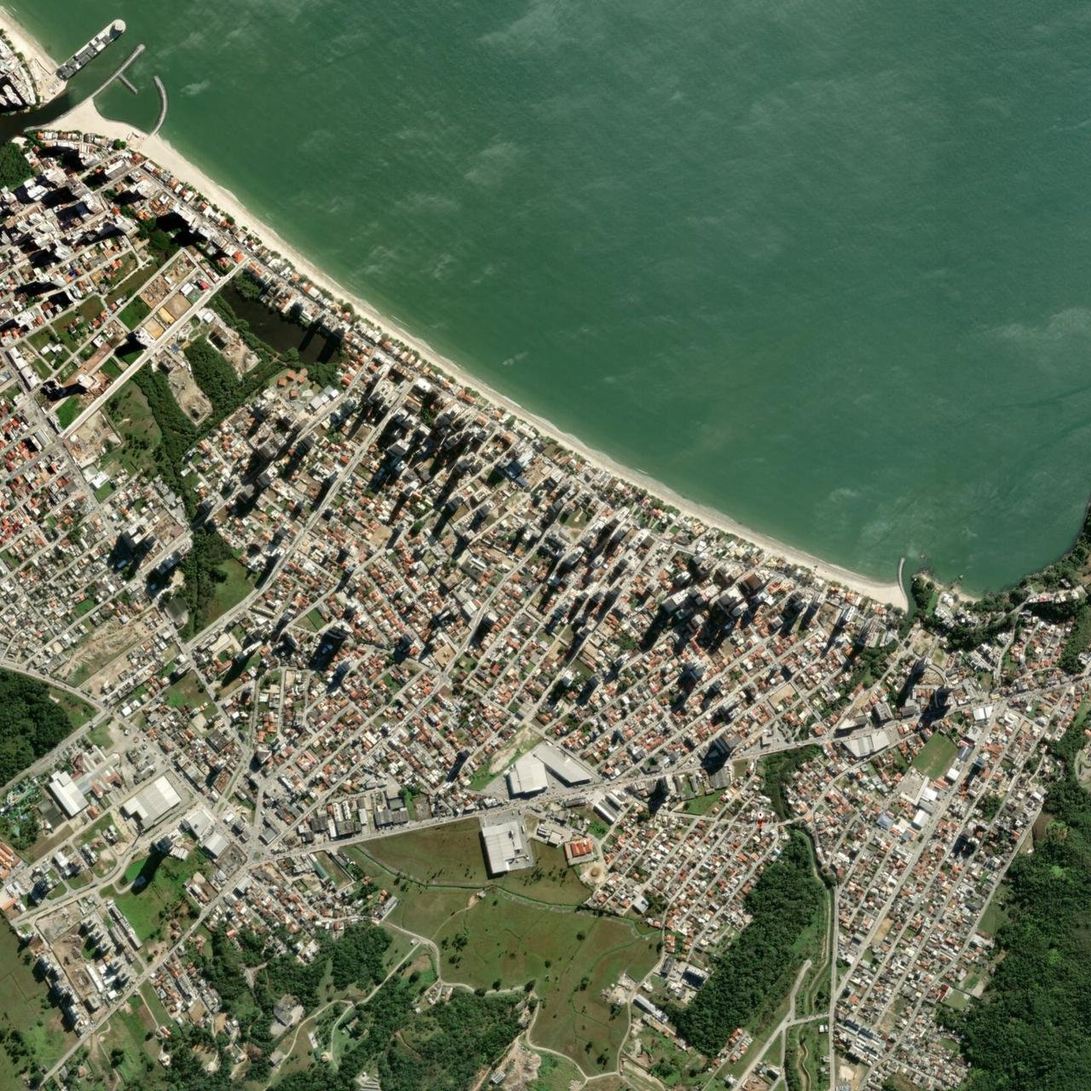
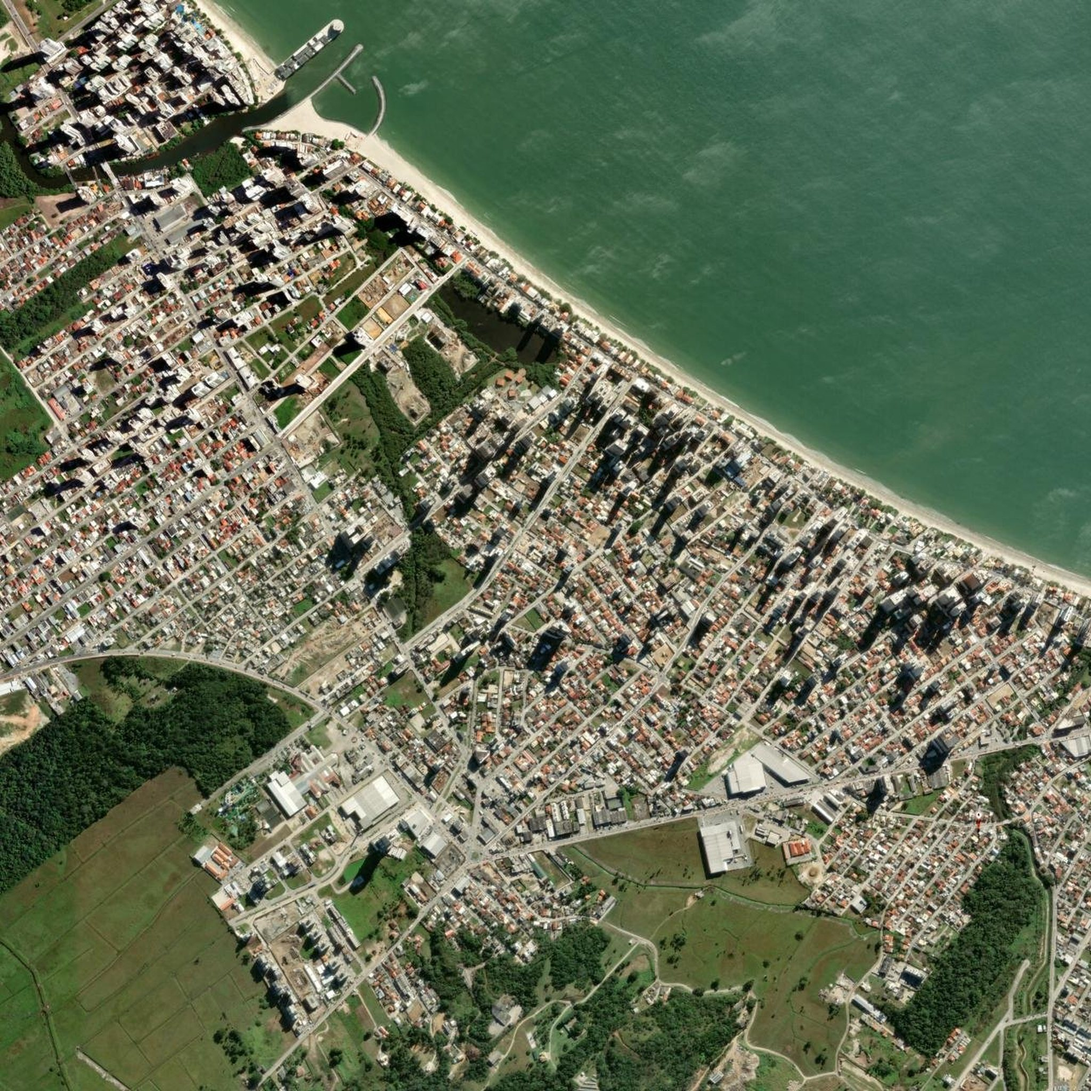
Montemerano: endereço (Rua Dorvalino Voltolini, Balneário Perequê, Porto Belo), satélite no ponto do anúncio, previsão jul/2028 como previsão

diff --git a/Planta-Interativa/Planta Interativa/tour/src/scene/entorno.generated.ts b/Planta-Interativa/Planta Interativa/tour/src/scene/entorno.generated.ts
@@ -1,2 +1,2 @@
-/* Gerado por scripts/build-satelite.py — não edite à mão. Coordenada usada: -27.1561, -48.5745 */
-export const ENTORNO = { lat: -27.1561, lon: -48.5745, largo: {'size': 2720.4, 'offX': 118.5, 'offZ': -180.7}, perto: {'size': 952.2, 'offX': 50.5, 'offZ': 23.3} } as const
+/* Gerado por scripts/build-satelite.py — não edite à mão. Coordenada usada: -27.152655, -48.580215 */
+export const ENTORNO = { lat: -27.152655, lon: -48.580215, largo: {'size': 2720.5, 'offX': 140.5, 'offZ': 202.8}, perto: {'size': 952.2, 'offX': -63.5, 'offZ': -1.3} } as const

diff --git a/Planta-Interativa/Planta Interativa/tour/src/data/properties/montemerano-andar.ts b/Planta-Interativa/Planta Interativa/tour/src/data/properties/montemerano-andar.ts
@@ -84,7 +84,7 @@ const base: Omit<Property, 'id' | 'name' | 'shortName' | 'tagline' | 'tour' | 'a
   location: apto01.location,
   priceFrom: 0,
   currency: 'BRL',
-  completion: 'A confirmar',
+  completion: 'Previsão jul/2028',
   bedrooms: 3,
   bathrooms: 4,
   wallHeight: apto01.wallHeight,

diff --git a/Planta-Interativa/Planta Interativa/tour/src/data/properties/montemerano-lazer.ts b/Planta-Interativa/Planta Interativa/tour/src/data/properties/montemerano-lazer.ts
@@ -14,7 +14,7 @@ export const montemeranoLazer: Property = {
   location: 'Balneário Perequê · Porto Belo/SC',
   priceFrom: 0,
   currency: 'BRL',
-  completion: 'A confirmar',
+  completion: 'Previsão jul/2028',
   bedrooms: 0,
   bathrooms: 0,
   wallHeight: 3,

diff --git a/Planta-Interativa/Planta Interativa/tour/src/data/properties/montemerano.ts b/Planta-Interativa/Planta Interativa/tour/src/data/properties/montemerano.ts
@@ -16,7 +16,7 @@ export const apto01: Property = {
   location: 'Balneário Perequê · Porto Belo/SC',
   priceFrom: 0,
   currency: 'BRL',
-  completion: 'A confirmar',
+  completion: 'Previsão jul/2028',
   bedrooms: 3,
   bathrooms: 4,
   wallHeight: 2.7,
